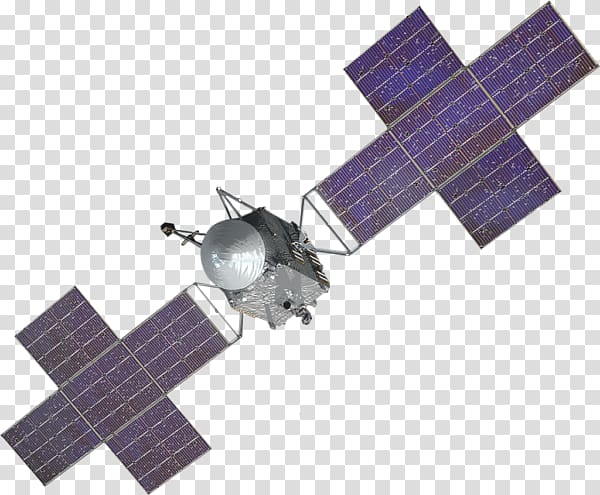
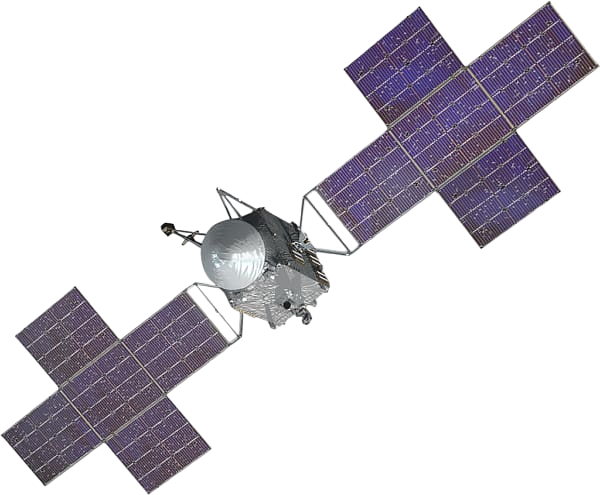
fixed up the satellite orientation and added in the asteroid. removed satellite background.

diff --git a/Button Masher/index.html b/Button Masher/index.html
@@ -241,10 +241,18 @@
   animation: orbitSpin var(--orbitDur) linear infinite;
   filter: drop-shadow(0 6px 18px rgba(0,0,0,0.45));
 }
-
+.asteroid{
+  position: absolute;
+  left: 50%;
+  top: 50%;
+  width: 110px;          /* tweak size here */
+  transform: translate(-50%, -50%);
+  pointer-events: none;
+  filter: drop-shadow(0 10px 28px rgba(0,0,0,0.45));
+}
 /* tweak this until the "front" points at the pink dot */
 :root{
-  --sat-face-offset: 180deg;
+  --sat-face-offset: 210deg;
 }
 
 .satellite {
@@ -307,11 +315,16 @@
       <p class="sub">Your presses: <span id="finalScore">0</span></p>
 
       <div id="animWrap" class="satellite-wrap" aria-hidden="true">
-        <div id="orbit" class="orbit">
-          <div class="asteroid-dot" aria-hidden="true"></div>
-          <img id="satImg" class="satellite" src="assets/satellite.png" alt="Satellite" />
-        </div>
-      </div>
+
+  <!-- Rooted asteroid (does NOT spin) -->
+  <img class="asteroid" src="assets/asteroid.png" alt="" aria-hidden="true" />
+
+  <!-- Rotating orbit container -->
+  <div id="orbit" class="orbit">
+    <img id="satImg" class="satellite" src="assets/satellite.png" alt="Satellite" />
+  </div>
+
+</div>
 
       <div id="funFact"></div>
 
@@ -357,7 +370,7 @@
       if (score <= 20) return 5.0;
       if (score <= 25) return 4.2;
       if (score <= 30) return 3.6;
-      return 3.0;
+      return 2.0;
     }
 
     function startMashAudio() {
